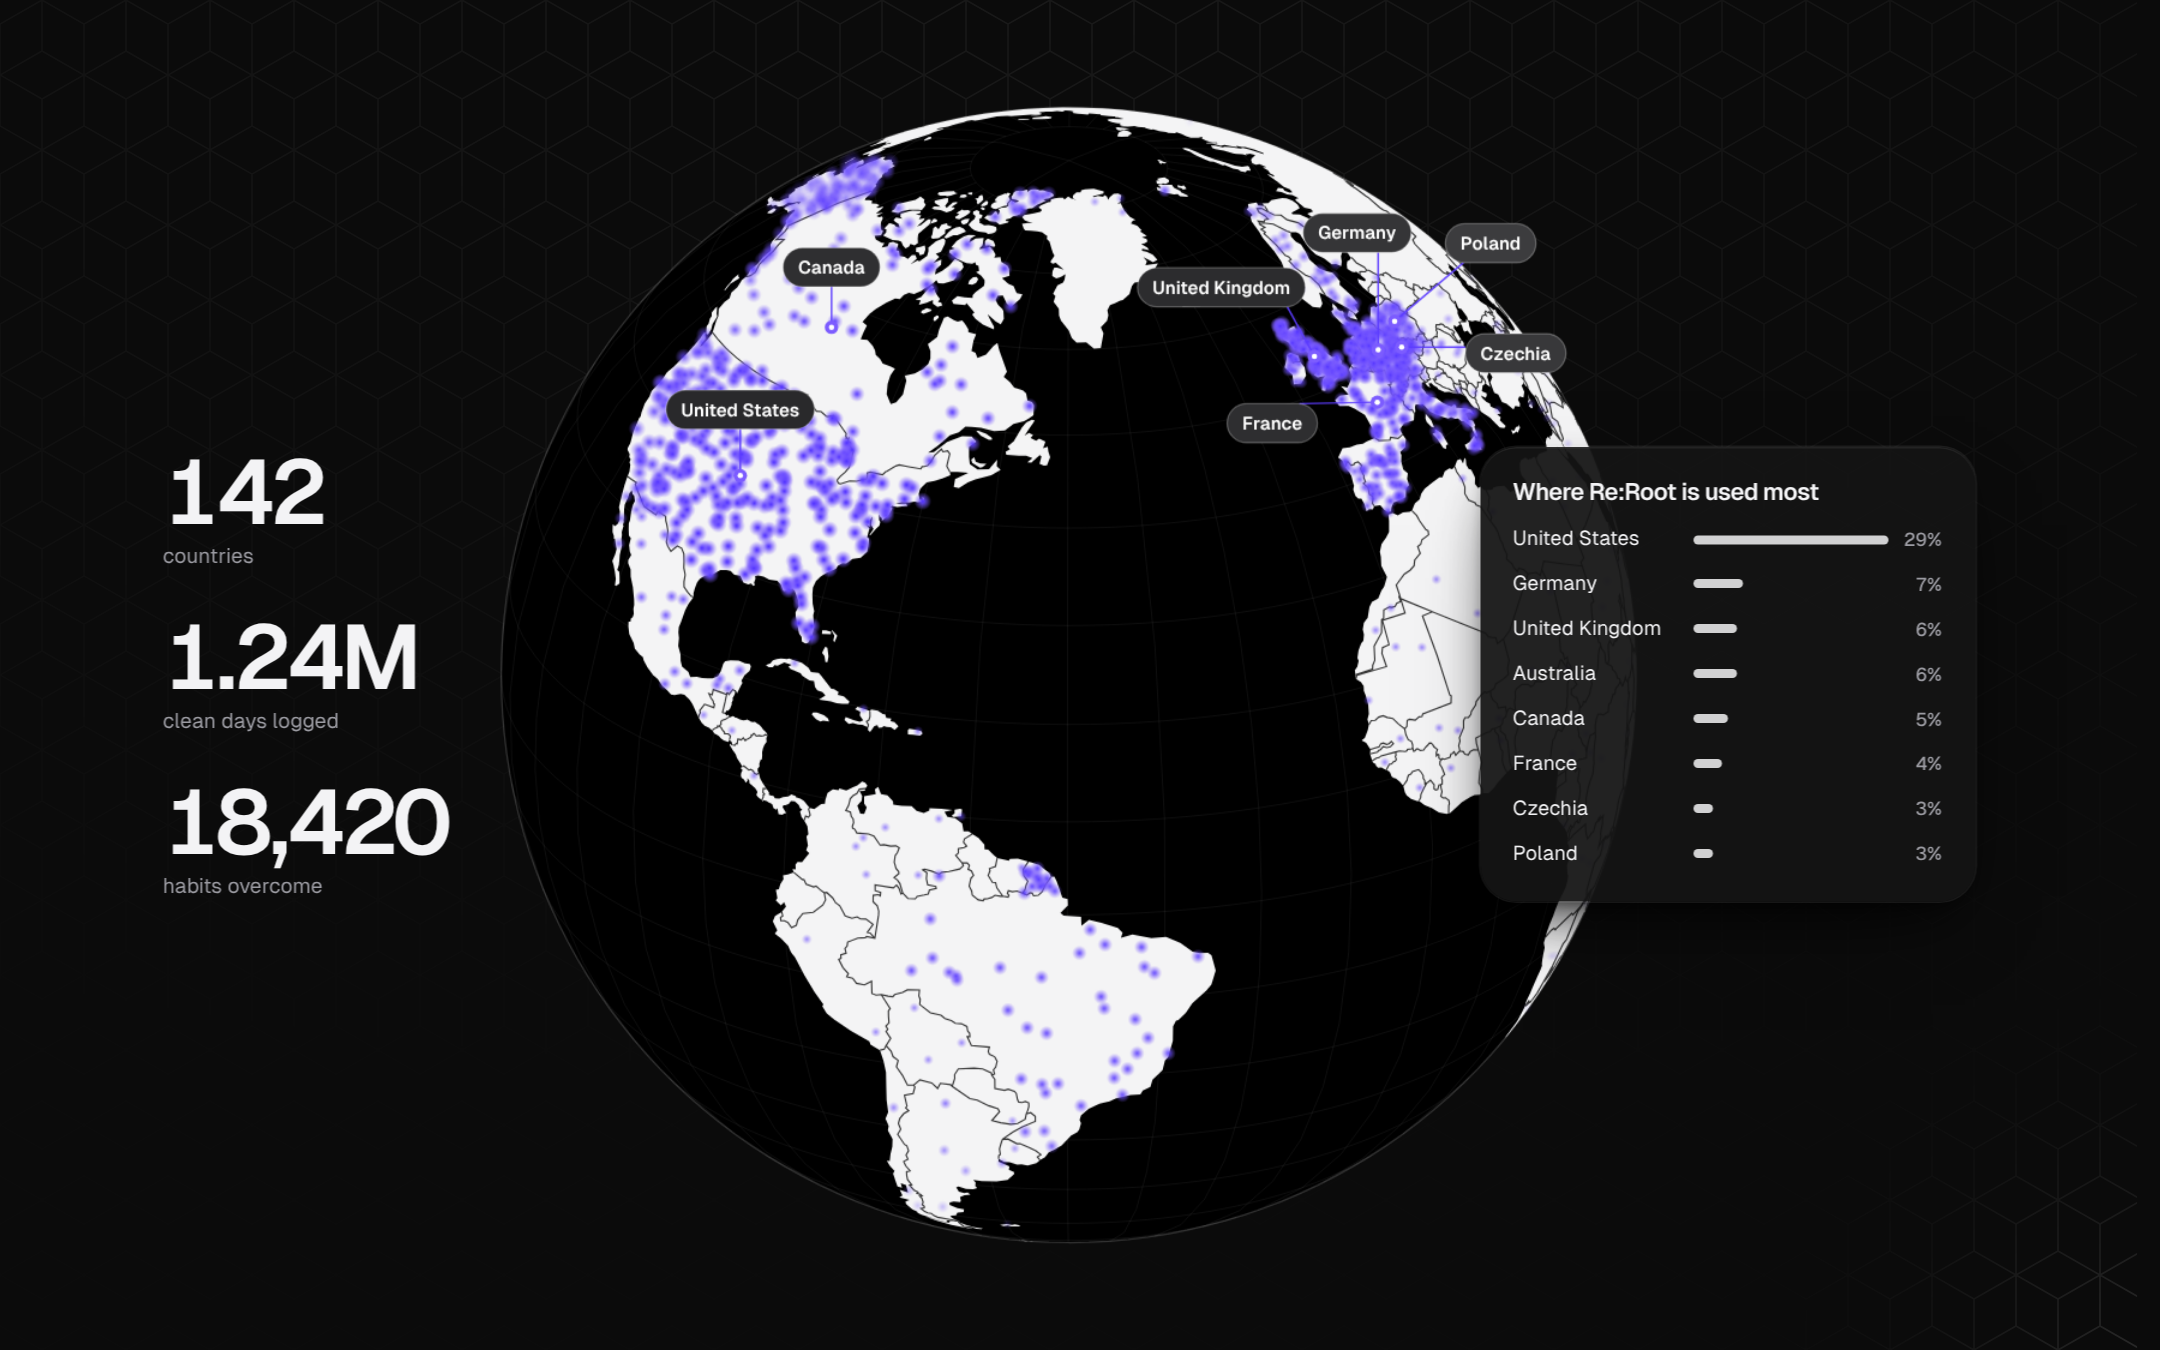
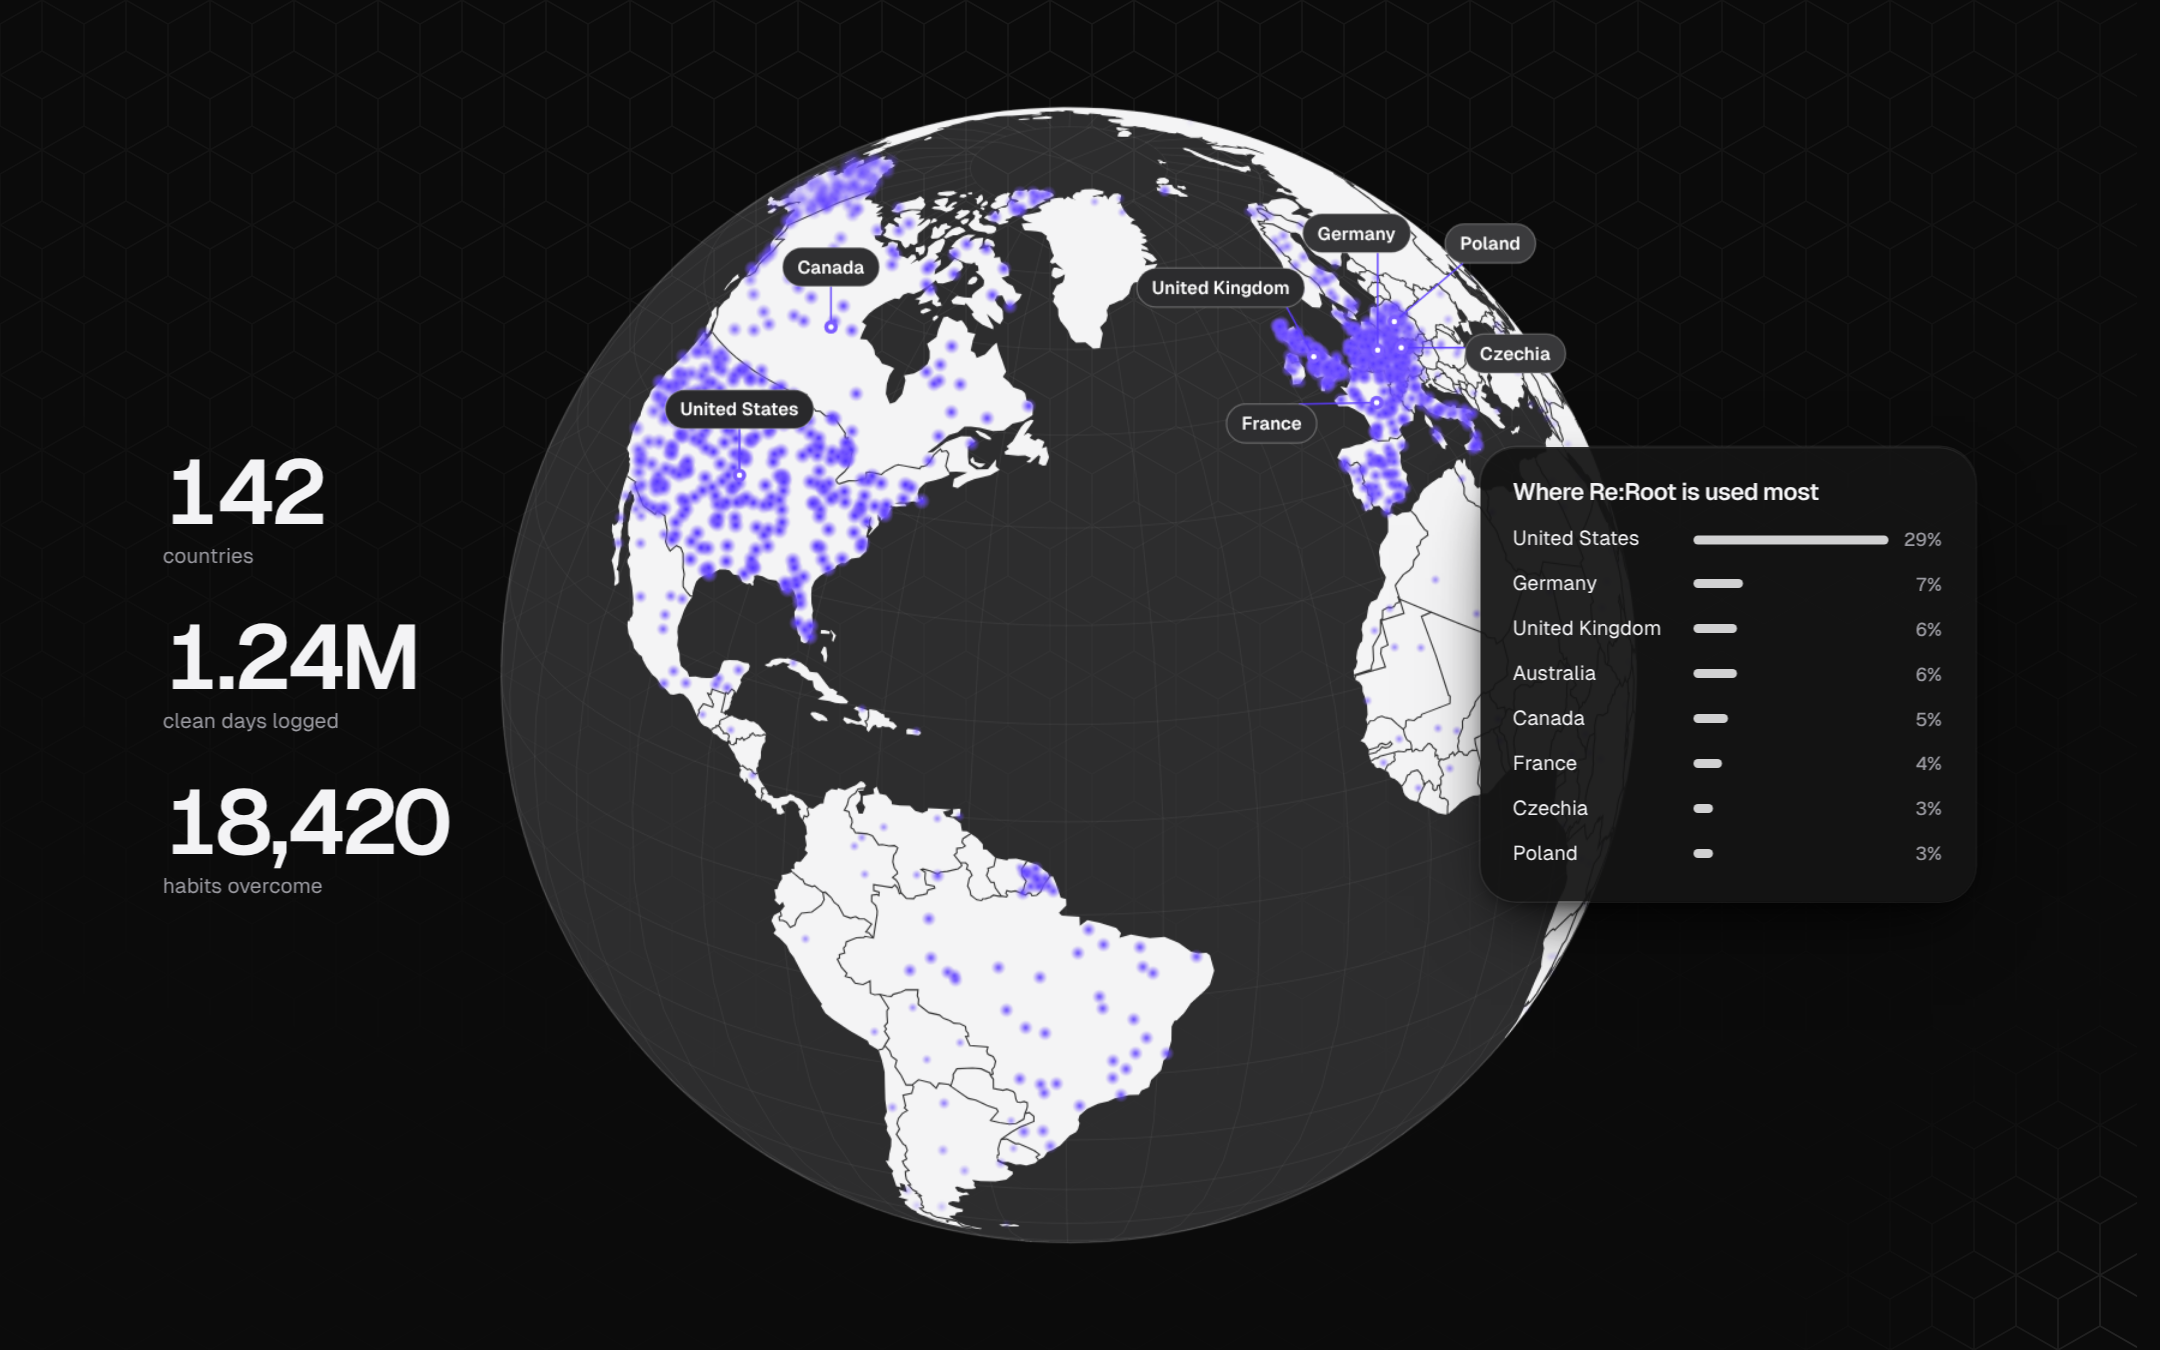
Community globe: soft grey ocean instead of black; refreshed README screenshot
Claude-Session: https://claude.ai/code/session_01QXurgyRLi1geUZYSCjGWpU

Changed region(s): [[0.2171, 0.0622, 0.7444, 0.9333]]

diff --git a/assets/js/community.js b/assets/js/community.js
@@ -33,7 +33,7 @@
       const L = isLight(), R = Math.min(W, H) * .44;
       proj.scale(R).translate([W / 2, H / 2]).rotate(rot);
       ctx.setTransform(dpr, 0, 0, dpr, 0, 0); const pad = R * 1.75; ctx.clearRect(Math.max(0, W / 2 - pad), Math.max(0, H / 2 - pad), pad * 2, pad * 2);
-      ctx.beginPath(); path(sphere); ctx.fillStyle = '#000000'; ctx.fill();   // black ocean, white land, crisp black borders (both themes)
+      ctx.beginPath(); path(sphere); ctx.fillStyle = 'rgba(243,243,245,.15)'; ctx.fill();   // ocean: the title colour, faded right down; white land with dark borders
       ctx.beginPath(); path(grat); ctx.strokeStyle = 'rgba(255,255,255,.07)'; ctx.lineWidth = .7; ctx.stroke();
       if (world) {
         ctx.beginPath(); path(world.solid); ctx.fillStyle = '#f4f4f5'; ctx.fill();
